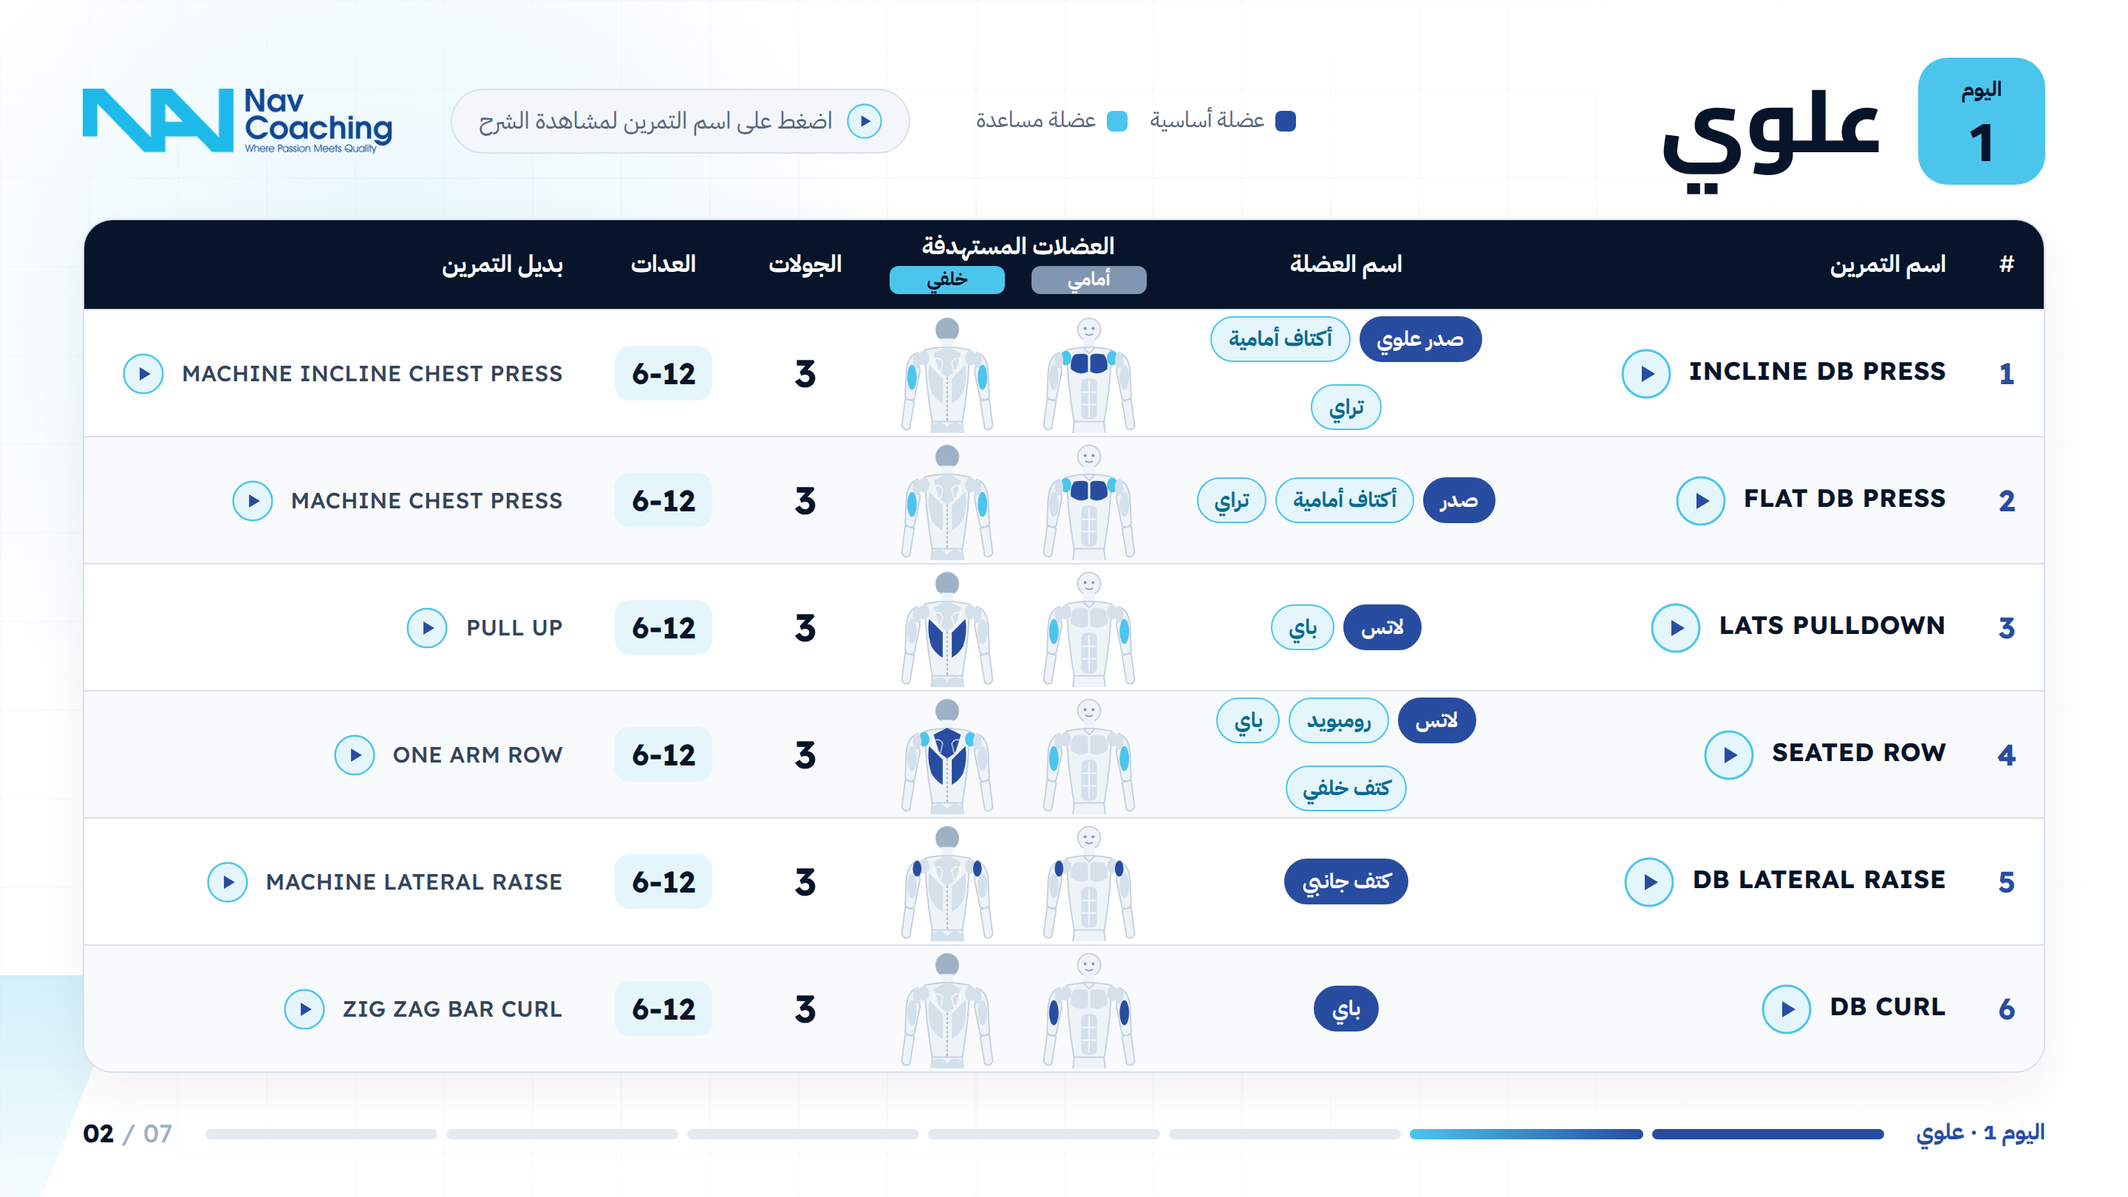
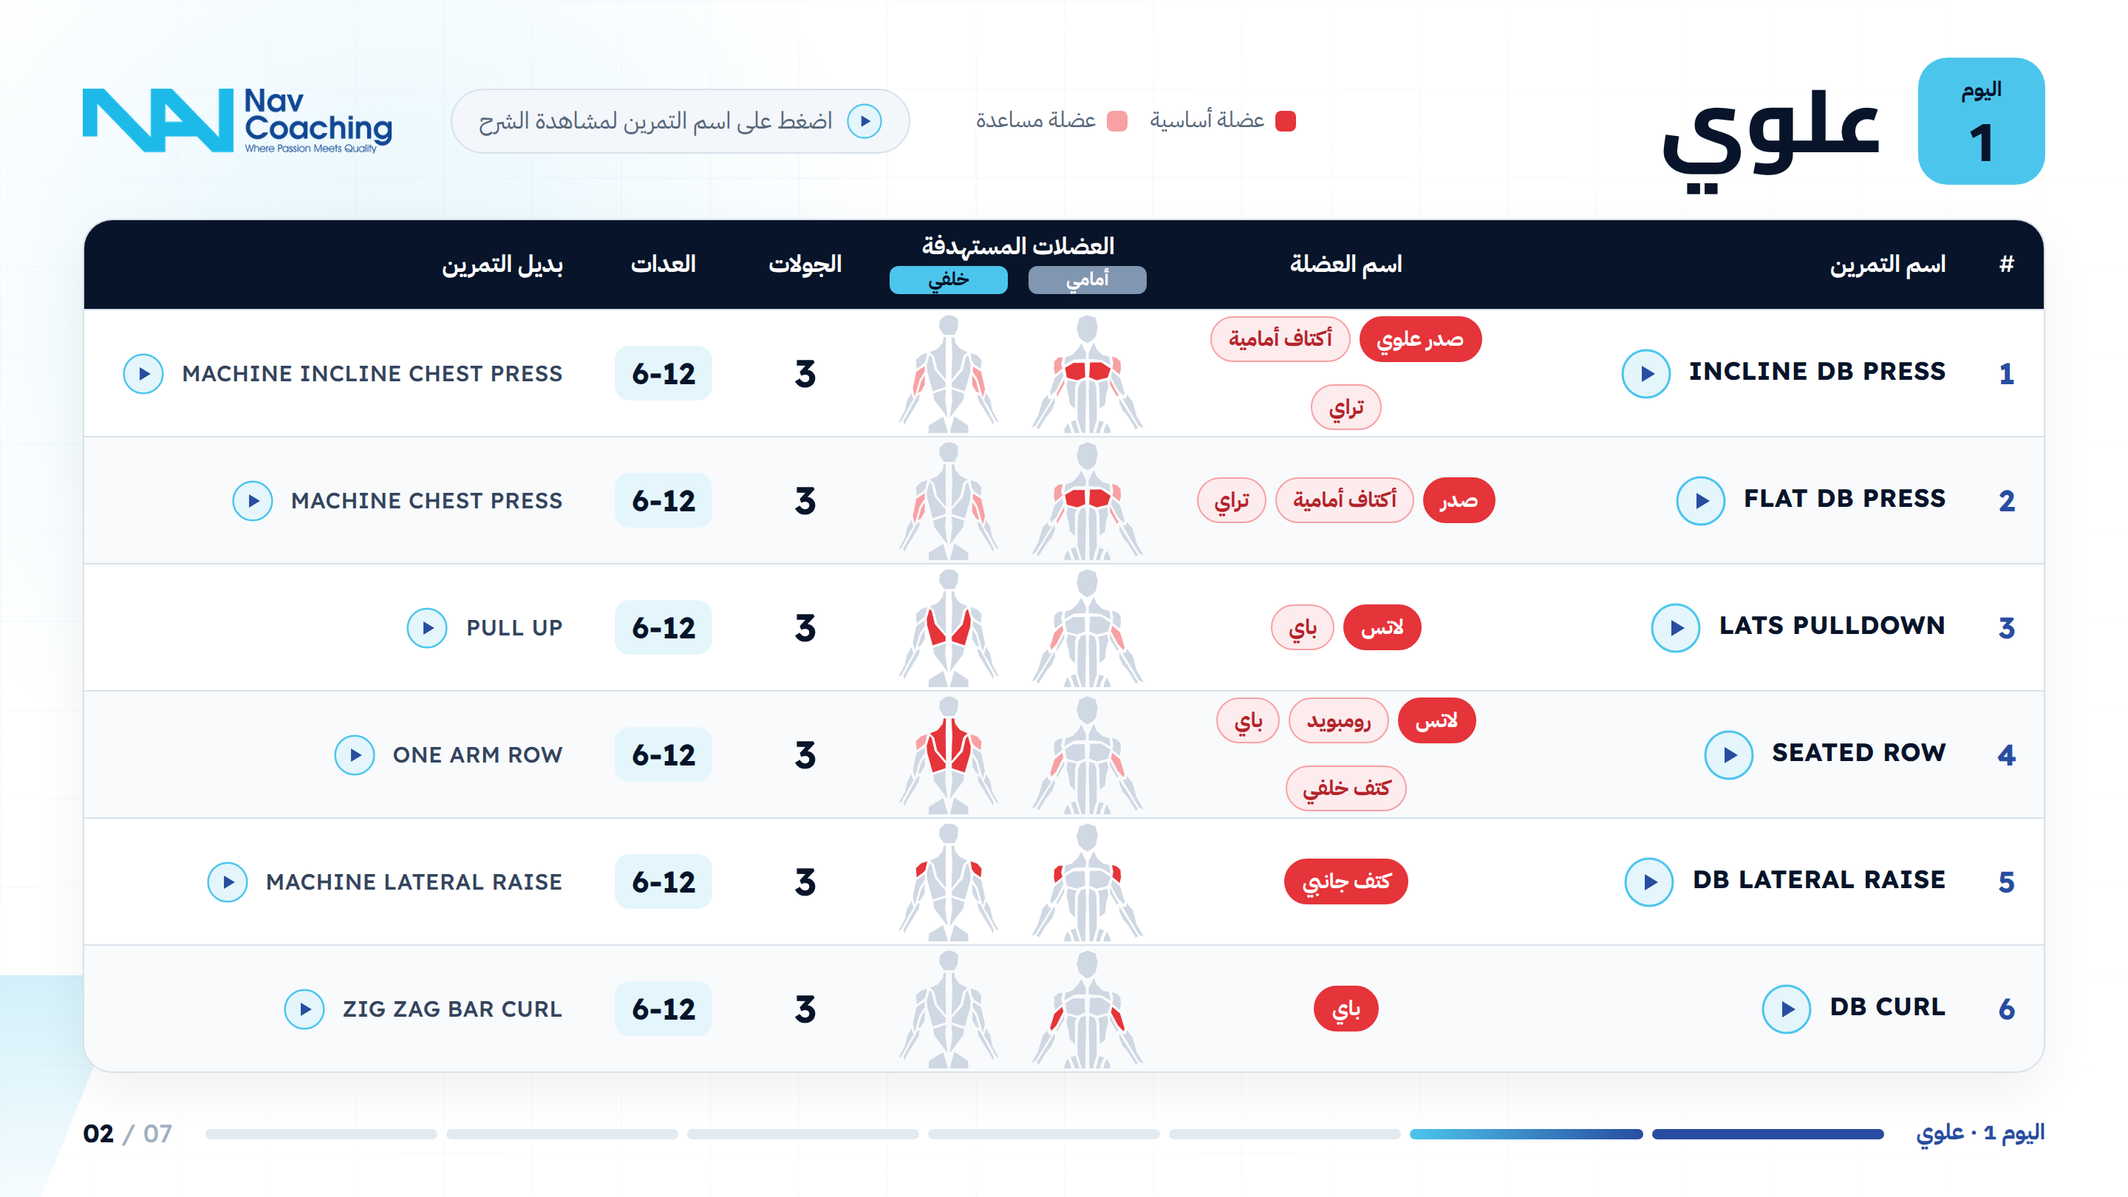
Program PDF: switch to anatomical muscle maps (MIT, react-body-highlighter) in red
Claude-Session: https://claude.ai/code/session_018Z9fQ6WXKqVkgdznS9iWHe

diff --git a/pdf/program.html b/pdf/program.html
@@ -78,13 +78,13 @@ a{color:inherit;text-decoration:none}
 .alt .lnk b{font-weight:500;color:#33445c;font-size:15px}
 .alt .lnk .pl{width:28px;height:28px}
 .tags{display:flex;flex-wrap:wrap;gap:6px;justify-content:center;padding:0 10px}
-.tag{font:700 14px "IBM Plex Sans Arabic";padding:4px 11px;border-radius:99px;background:var(--cyan-soft);border:1.5px solid var(--cyan);color:var(--cyan-ink);white-space:nowrap}
-.tag.p{background:var(--navy);border-color:var(--navy);color:#fff}
-.lg{display:flex;gap:16px;font:500 15px "IBM Plex Sans Arabic";color:var(--muted)}.lg span{display:flex;align-items:center;gap:7px}.lg i{width:14px;height:14px;border-radius:4px;background:var(--navy)}.lg i.s{background:var(--cyan)}
-.fig{gap:18px}.fig .v{display:flex;flex-direction:column;align-items:center}.fig svg{height:80px;width:78px}.fig .v span{font:700 11.5px "IBM Plex Sans Arabic";color:#fff;background:#8196b0;border-radius:6px;padding:0 7px;line-height:17px}.fig .v.b span{background:var(--ink3)}
+.tag{font:700 14px "IBM Plex Sans Arabic";padding:4px 11px;border-radius:99px;background:#fdeced;border:1.5px solid #f7a1a4;color:#b4232a;white-space:nowrap}
+.tag.p{background:#e5343a;border-color:#e5343a;color:#fff}
+.lg{display:flex;gap:16px;font:500 15px "IBM Plex Sans Arabic";color:var(--muted)}.lg span{display:flex;align-items:center;gap:7px}.lg i{width:14px;height:14px;border-radius:4px;background:#e5343a}.lg i.s{background:#f7a1a4}
+.fig{gap:14px}.fig .v{display:flex;flex-direction:column;align-items:center}.fig svg{height:80px;width:80px}.fig .v span{font:700 11.5px "IBM Plex Sans Arabic";color:#fff;background:#8196b0;border-radius:6px;padding:0 7px;line-height:17px}.fig .v.b span{background:var(--ink3)}
 .num{font:800 26px "Readex Pro";color:var(--ink)}
 .rep{font:700 20px "Readex Pro";color:var(--ink);direction:ltr;background:var(--cyan-soft);border-radius:10px;padding:6px 12px}
-.th .fh{display:flex;flex-direction:column;align-items:center;gap:4px;line-height:1.1}.th .fh div{display:flex;gap:18px}.th .fh span{width:78px;font:700 12.5px "IBM Plex Sans Arabic";background:#8196b0;border-radius:6px;line-height:19px}.th .fh span.b{background:var(--cyan);color:var(--ink)}
+.th .fh{display:flex;flex-direction:column;align-items:center;gap:4px;line-height:1.1}.th .fh div{display:flex;gap:14px}.th .fh span{width:80px;font:700 12.5px "IBM Plex Sans Arabic";background:#8196b0;border-radius:6px;line-height:19px}.th .fh span.b{background:var(--cyan);color:var(--ink)}
 .th .alt-h{text-align:right;padding-right:16px}
 .legend{position:absolute;bottom:78px;right:58px;display:flex;gap:18px;font:500 14px "IBM Plex Sans Arabic";color:var(--muted);z-index:2}
 .legend i{display:inline-block;width:12px;height:12px;border-radius:3px;margin-left:6px;vertical-align:-1px}
@@ -115,49 +115,20 @@ a{color:inherit;text-decoration:none}
 const TOTAL=7;
 const PLAY='<svg class="pl" viewBox="0 0 34 34"><circle cx="17" cy="17" r="16" fill="#e4f6fc" stroke="#4cc5ed" stroke-width="1.5"/><path d="M14 11.5v11l9-5.5z" fill="#284da0"/></svg>';
 const YT=id=>id.includes('/')?id:('https://www.youtube.com/'+(id.length&&id[0]==='w'?'watch?v='+id.slice(2):'shorts/'+id));
-// ---- body diagram
-const BASE='#d6e0eb',SIL='#eef3f8',STR='#c3cfdd',P='#284da0',S2='#4cc5ed';
-function mir(d){return d.replace(/(-?\d+(?:\.\d+)?),(-?\d+(?:\.\d+)?)/g,(m,x,y)=>(100-+x)+','+y)}
-function shape(tag,attrs){return '<'+tag+' '+Object.entries(attrs).map(([k,v])=>k+'="'+v+'"').join(' ')+'/>'}
-function both(kind,a,col){ // draws left + mirrored right
-  if(kind==='e'){const [cx,cy,rx,ry]=a;return shape('ellipse',{cx,cy,rx,ry,fill:col})+shape('ellipse',{cx:100-cx,cy,rx,ry,fill:col})}
-  return shape('path',{d:a,fill:col})+shape('path',{d:mir(a),fill:col})}
-function sil(low){let o='';
-  o+=shape('circle',{cx:50,cy:15,r:10,fill:SIL,stroke:STR,'stroke-width':1.2});
-  o+=shape('rect',{x:45,y:23,width:10,height:9,fill:SIL});
-  const parts=['M30,33 Q50,28 70,33 L68,62 Q66,80 63,98 L37,98 Q34,80 32,62 Z','M37,96 L63,96 L65,112 L50,118 L35,112 Z'];
-  parts.forEach(d=>o+=shape('path',{d,fill:SIL,stroke:STR,'stroke-width':1.2}));
-  (low?[]:['M24,35 Q15,38 14,52 L13,74 Q16,79 21,76 L26,52 Z','M13,76 L10,100 Q13,105 17,102 L21,78 Z']).concat(['M35,110 Q32,140 36,160 L37,193 L46,193 L47,160 Q50,135 50,116 Z']).forEach(d=>{o+=shape('path',{d,fill:SIL,stroke:STR,'stroke-width':1.2})+shape('path',{d:mir(d),fill:SIL,stroke:STR,'stroke-width':1.2})});
-  return o}
-function body(view,pri,sec){const c=m=>pri.includes(m)?P:(sec.includes(m)?S2:BASE);
-  const all0=pri.concat(sec),low=all0.every(m=>['quads','glutes','hams','calves'].includes(m));let o=sil(low);
-  if(view==='f'){
-    o+=both('p','M37,37 Q49,35 49,39 L49,52 Q42,56 34,50 Q33,42 37,37Z',c('chest'));
-    o+=both('e',[29.5,40,4.8,6.5],c('fdelt'));o+=both('e',[23.5,42,3.8,7],c('sdelt'));
-    o+=both('e',[19,57,4.2,11],c('biceps'));
-    o+=shape('rect',{x:43,y:58,width:14,height:36,rx:5,fill:c('abs')});
-    o+=both('e',[42,136,7.5,23],c('quads'));o+=both('e',[41,172,4,14],BASE);
-    // front cues: face, collar V, six-pack lines, navel
-    o+=shape('circle',{cx:46.5,cy:14,r:1.3,fill:'#8196b0'})+shape('circle',{cx:53.5,cy:14,r:1.3,fill:'#8196b0'})+shape('path',{d:'M47,19 Q50,21 53,19',fill:'none',stroke:'#8196b0','stroke-width':1.1,'stroke-linecap':'round'});
-    o+=shape('path',{d:'M45,31 L50,36 L55,31',fill:'none',stroke:STR,'stroke-width':1.2});
-    o+=shape('path',{d:'M50,60 V92 M43.5,70 H56.5 M43.5,81 H56.5',fill:'none',stroke:'#ffffffcc','stroke-width':1.1});
-    if(low){o+=shape('path',{d:'M38,99 L50,111 L62,99',fill:'none',stroke:STR,'stroke-width':1.3});o+=both('e',[41.5,161,3,3.2],'#c3cfdd');o+=both('p','M37,190 L46,190 L47,196 L35,196Z','#c3cfdd');}
-  }else{
-    o+=shape('path',{d:'M50,30 L62,36 L57,52 L50,57 L43,52 L38,36Z',fill:c('rhomb')});
-    o+=both('p','M34,46 Q40,52 46,58 L46,80 Q40,77 36,70 Q32,58 34,46Z',c('lats'));
-    o+=both('e',[29.5,40,4.8,6.5],c('rdelt'));o+=both('e',[23.5,42,3.8,7],c('sdelt'));
-    o+=both('e',[19,57,4.2,11],c('triceps'));
-    o+=both('e',[43,106,8,9],c('glutes'));o+=both('e',[42,138,7,19],c('hams'));o+=both('e',[41,171,5.5,13],c('calves'));
-    // back cues: hair, spine, shoulder blades
-    o+=shape('path',{d:'M40,15 A10,10 0 0 1 60,15 Q60,21 57,23 L43,23 Q40,21 40,15Z',fill:'#9fb1c6'});
-    o+=shape('path',{d:'M50,57 V96',fill:'none',stroke:'#aab9cb','stroke-width':1.3,'stroke-dasharray':'2.2 1.8'});
-    if(low){o+=shape('path',{d:'M50,99 V116',fill:'none',stroke:'#aab9cb','stroke-width':1.2});o+=both('p','M38,193 L45,193 L44,196 L39,196Z','#c3cfdd');}
-    o+=both('p','M38.5,41 Q44,39 46,44 L44,52 Q40,51 38.5,47Z','none');
-    o+=shape('path',{d:'M38.5,41 Q44,39 46,44 L44,52 Q40,51 38.5,47Z M61.5,41 Q56,39 54,44 L56,52 Q60,51 61.5,47Z',fill:'none',stroke:'#ffffffb0','stroke-width':1});
-  }
+// ---- body diagram (anatomy polygons: react-body-highlighter, MIT, (c) 2020 GV79)
+const ANAT={"anteriorData":[["CHEST",["51.8367347 41.6326531 51.0204082 55.1020408 57.9591837 57.9591837 67.755102 55.5102041 70.6122449 47.3469388 62.0408163 41.6326531","29.7959184 46.5306122 31.4285714 55.5102041 40.8163265 57.9591837 48.1632653 55.1020408 47.755102 42.0408163 37.5510204 42.0408163"]],["OBLIQUES",["68.5714286 63.2653061 67.3469388 57.1428571 58.7755102 59.5918367 60 64.0816327 60.4081633 83.2653061 65.7142857 78.7755102 66.5306122 69.7959184","33.877551 78.3673469 33.0612245 71.8367347 31.0204082 63.2653061 32.244898 57.1428571 40.8163265 59.1836735 39.1836735 63.2653061 39.1836735 83.6734694"]],["ABS",["56.3265306 59.1836735 57.9591837 64.0816327 58.3673469 77.9591837 58.3673469 92.6530612 56.3265306 98.3673469 55.1020408 104.081633 51.4285714 107.755102 51.0204082 84.4897959 50.6122449 67.3469388 51.0204082 57.1428571","43.6734694 58.7755102 48.5714286 57.1428571 48.9795918 67.3469388 48.5714286 84.4897959 48.1632653 107.346939 44.4897959 103.673469 40.8163265 91.4285714 40.8163265 78.3673469 41.2244898 64.4897959"]],["BICEPS",["16.7346939 68.1632653 17.9591837 71.4285714 22.8571429 66.122449 28.9795918 53.877551 27.755102 49.3877551 20.4081633 55.9183673","71.4285714 49.3877551 70.2040816 54.6938776 76.3265306 66.122449 81.6326531 71.8367347 82.8571429 68.9795918 78.7755102 55.5102041"]],["TRICEPS",["69.3877551 55.5102041 69.3877551 61.6326531 75.9183673 72.6530612 77.5510204 70.2040816 75.5102041 67.3469388","22.4489796 69.3877551 29.7959184 55.5102041 29.7959184 60.8163265 22.8571429 73.0612245"]],["NECK",["55.5102041 23.6734694 50.6122449 33.4693878 50.6122449 39.1836735 61.6326531 40 70.6122449 44.8979592 69.3877551 36.7346939 63.2653061 35.1020408 58.3673469 30.6122449","28.9795918 44.8979592 30.2040816 37.1428571 36.3265306 35.1020408 41.2244898 30.2040816 44.4897959 24.4897959 48.9795918 33.877551 48.5714286 39.1836735 37.9591837 39.5918367"]],["FRONT_DELTOIDS",["78.3673469 53.0612245 79.5918367 47.755102 79.1836735 41.2244898 75.9183673 37.9591837 71.0204082 36.3265306 72.244898 42.8571429 71.4285714 47.3469388","28.1632653 47.3469388 21.2244898 53.0612245 20 47.755102 20.4081633 40.8163265 24.4897959 37.1428571 28.5714286 37.1428571 26.9387755 43.2653061"]],["HEAD",["42.4489796 2.85714286 40 11.8367347 42.0408163 19.5918367 46.122449 23.2653061 49.7959184 25.3061224 54.6938776 22.4489796 57.5510204 19.1836735 59.1836735 10.2040816 57.1428571 2.44897959 49.7959184 0"]],["ABDUCTORS",["52.6530612 110.204082 54.2857143 124.897959 60 110.204082 62.0408163 100 64.8979592 94.2857143 60 92.6530612 56.7346939 104.489796","47.755102 110.612245 44.8979592 125.306122 42.0408163 115.918367 40.4081633 113.061224 39.5918367 107.346939 37.9591837 102.44898 34.6938776 93.877551 39.5918367 92.244898 41.6326531 99.1836735 43.6734694 105.306122"]],["QUADRICEPS",["34.6938776 98.7755102 37.1428571 108.163265 37.1428571 127.755102 34.2857143 137.142857 31.0204082 132.653061 29.3877551 120 28.1632653 111.428571 29.3877551 100.816327 32.244898 94.6938776","63.2653061 105.714286 64.4897959 100 66.9387755 94.6938776 70.2040816 101.22449 71.0204082 111.836735 68.1632653 133.061224 65.3061224 137.55102 62.4489796 128.571429 62.0408163 111.428571","38.7755102 129.387755 38.3673469 112.244898 41.2244898 118.367347 44.4897959 129.387755 42.8571429 135.102041 40 146.122449 36.3265306 146.530612 35.5102041 140","59.5918367 145.714286 55.5102041 128.979592 60.8163265 113.877551 61.2244898 130.204082 64.0816327 139.591837 62.8571429 146.530612","32.6530612 138.367347 26.5306122 145.714286 25.7142857 136.734694 25.7142857 127.346939 26.9387755 114.285714 29.3877551 133.469388","71.8367347 113.061224 73.877551 124.081633 73.877551 140.408163 72.6530612 145.714286 66.5306122 138.367347 70.2040816 133.469388"]],["KNEES",["33.877551 140 34.6938776 143.265306 35.5102041 147.346939 36.3265306 151.020408 35.1020408 156.734694 29.7959184 156.734694 27.3469388 152.653061 27.3469388 147.346939 30.2040816 144.081633","65.7142857 140 72.244898 147.755102 72.244898 152.244898 69.7959184 157.142857 64.8979592 156.734694 62.8571429 151.020408"]],["CALVES",["71.4285714 160.408163 73.4693878 153.469388 76.7346939 161.22449 79.5918367 167.755102 78.3673469 187.755102 79.5918367 195.510204 74.6938776 195.510204","24.8979592 194.693878 27.755102 164.897959 28.1632653 160.408163 26.122449 154.285714 24.8979592 157.55102 22.4489796 161.632653 20.8163265 167.755102 22.0408163 188.163265 20.8163265 195.510204","72.6530612 195.102041 69.7959184 159.183673 65.3061224 158.367347 64.0816327 162.44898 64.0816327 165.306122 65.7142857 177.142857","35.5102041 158.367347 35.9183673 162.44898 35.9183673 166.938776 35.1020408 172.244898 35.1020408 176.734694 32.244898 182.040816 30.6122449 187.346939 26.9387755 194.693878 27.3469388 187.755102 28.1632653 180.408163 28.5714286 175.510204 28.9795918 169.795918 29.7959184 164.081633 30.2040816 158.77551"]],["FOREARM",["6.12244898 88.5714286 10.2040816 75.1020408 14.6938776 70.2040816 16.3265306 74.2857143 19.1836735 73.4693878 4.48979592 97.5510204 0 100","84.4897959 69.7959184 83.2653061 73.4693878 80 73.0612245 95.1020408 98.3673469 100 100.408163 93.4693878 89.3877551 89.7959184 76.3265306","77.5510204 72.244898 77.5510204 77.5510204 80.4081633 84.0816327 85.3061224 89.7959184 92.244898 101.22449 94.6938776 99.5918367","6.93877551 101.22449 13.4693878 90.6122449 18.7755102 84.0816327 21.6326531 77.1428571 21.2244898 71.8367347 4.89795918 98.7755102"]]],"posteriorData":[["HEAD",["50.6382979 0 45.9574468 0.85106383 40.8510638 5.53191489 40.4255319 12.7659574 45.106383 20 55.7446809 20 59.1489362 13.6170213 59.5744681 4.68085106 55.7446809 1.27659574"]],["TRAPEZIUS",["44.6808511 21.7021277 47.6595745 21.7021277 47.2340426 38.2978723 47.6595745 64.6808511 38.2978723 53.1914894 35.3191489 40.8510638 31.0638298 36.5957447 39.1489362 33.1914894 43.8297872 27.2340426","52.3404255 21.7021277 55.7446809 21.7021277 56.5957447 27.2340426 60.8510638 32.7659574 68.9361702 36.5957447 64.6808511 40.4255319 61.7021277 53.1914894 52.3404255 64.6808511 53.1914894 38.2978723"]],["BACK_DELTOIDS",["29.3617021 37.0212766 22.9787234 39.1489362 17.4468085 44.2553191 18.2978723 53.6170213 24.2553191 49.3617021 27.2340426 46.3829787","71.0638298 37.0212766 78.2978723 39.5744681 82.5531915 44.6808511 81.7021277 53.6170213 74.893617 48.9361702 72.3404255 45.106383"]],["UPPER_BACK",["31.0638298 38.7234043 28.0851064 48.9361702 28.5106383 55.3191489 34.0425532 75.3191489 47.2340426 71.0638298 47.2340426 66.3829787 36.5957447 54.0425532 33.6170213 41.2765957","68.9361702 38.7234043 71.9148936 49.3617021 71.4893617 56.1702128 65.9574468 75.3191489 52.7659574 71.0638298 52.7659574 66.3829787 63.4042553 54.4680851 66.3829787 41.7021277"]],["TRICEPS",["26.8085106 49.787234 17.8723404 55.7446809 14.4680851 72.3404255 16.5957447 81.7021277 21.7021277 63.8297872 26.8085106 55.7446809","73.6170213 50.212766 82.1276596 55.7446809 85.9574468 73.1914894 83.4042553 82.1276596 77.8723404 62.9787234 73.1914894 55.7446809","26.8085106 58.2978723 26.8085106 68.5106383 22.9787234 75.3191489 19.1489362 77.4468085 22.5531915 65.5319149","72.7659574 58.2978723 77.0212766 64.6808511 80.4255319 77.4468085 76.5957447 75.3191489 72.7659574 68.9361702"]],["LOWER_BACK",["47.6595745 72.7659574 34.4680851 77.0212766 35.3191489 83.4042553 49.3617021 102.12766 46.8085106 82.9787234","52.3404255 72.7659574 65.5319149 77.0212766 64.6808511 83.4042553 50.6382979 102.12766 53.1914894 83.8297872"]],["FOREARM",["86.3829787 75.7446809 91.0638298 83.4042553 93.1914894 94.0425532 100 106.382979 96.1702128 104.255319 88.0851064 89.3617021 84.2553191 83.8297872","13.6170213 75.7446809 8.93617021 83.8297872 6.80851064 93.6170213 0 106.382979 3.82978723 104.255319 12.3404255 88.5106383 15.7446809 82.9787234","81.2765957 79.5744681 77.4468085 77.8723404 79.1489362 84.6808511 91.0638298 103.829787 93.1914894 108.93617 94.4680851 104.680851","18.7234043 79.5744681 22.1276596 77.8723404 20.8510638 84.2553191 9.36170213 102.978723 6.80851064 108.510638 5.10638298 104.680851"]],["GLUTEAL",["44.6808511 99.5744681 30.212766 108.510638 29.787234 118.723404 31.4893617 125.957447 47.2340426 121.276596 49.3617021 114.893617","55.3191489 99.1489362 51.0638298 114.468085 52.3404255 120.851064 68.0851064 125.957447 69.787234 119.148936 69.3617021 108.510638"]],["ABDUCTOR",["48.0851064 122.978723 44.6808511 122.978723 41.2765957 125.531915 45.106383 144.255319 48.5106383 135.744681 48.9361702 129.361702","51.9148936 122.553191 55.7446809 123.404255 59.1489362 125.957447 54.893617 144.255319 51.9148936 136.170213 51.0638298 129.361702"]],["HAMSTRING",["28.9361702 122.12766 31.0638298 129.361702 36.5957447 125.957447 35.3191489 135.319149 34.4680851 150.212766 29.3617021 158.297872 28.9361702 146.808511 27.6595745 141.276596 27.2340426 131.489362","71.4893617 121.702128 69.3617021 128.93617 63.8297872 125.957447 65.5319149 136.595745 66.3829787 150.212766 71.0638298 158.297872 71.4893617 147.659574 72.7659574 142.12766 73.6170213 131.914894","38.7234043 125.531915 44.2553191 145.957447 40.4255319 166.808511 36.1702128 152.765957 37.0212766 135.319149","61.7021277 125.531915 63.4042553 136.170213 64.2553191 153.191489 60 166.808511 56.1702128 146.382979"]],["KNEES",["34.4680851 153.191489 31.0638298 159.148936 33.6170213 166.382979 37.4468085 162.553191","66.3829787 153.617021 62.9787234 162.978723 66.8085106 166.382979 69.3617021 159.148936"]],["CALVES",["29.3617021 160.425532 28.5106383 167.234043 24.6808511 179.574468 23.8297872 192.765957 25.5319149 197.021277 28.5106383 193.191489 29.787234 180 31.9148936 171.06383 31.9148936 166.808511","37.4468085 165.106383 35.3191489 167.659574 33.1914894 171.914894 31.0638298 180.425532 30.212766 191.914894 34.0425532 200 38.7234043 190.638298 39.1489362 168.93617","62.9787234 165.106383 61.2765957 168.510638 61.7021277 190.638298 66.3829787 199.574468 70.6382979 191.914894 68.9361702 179.574468 66.8085106 170.212766","70.6382979 160.425532 72.3404255 168.510638 75.7446809 179.148936 76.5957447 192.765957 74.4680851 196.595745 72.3404255 193.617021 70.6382979 179.574468 68.0851064 168.085106"]],["LEFT_SOLEUS",["28.5106383 195.744681 30.212766 195.744681 33.6170213 201.702128 30.6382979 220 28.5106383 213.617021 26.8085106 198.297872"]],["RIGHT_SOLEUS",["69.787234 195.744681 71.9148936 195.744681 73.6170213 198.297872 71.9148936 213.191489 70.212766 219.574468 67.2340426 202.12766"]]]};
+const RED='#e5343a',RED2='#f7a1a4',BODY='#cfd8e3';
+const MAP={chest:['CHEST'],fdelt:['FRONT_DELTOIDS'],sdelt:['FRONT_DELTOIDS','BACK_DELTOIDS'],rdelt:['BACK_DELTOIDS'],biceps:['BICEPS'],triceps:['TRICEPS'],
+ lats:['UPPER_BACK'],rhomb:['TRAPEZIUS'],abs:['ABS'],quads:['QUADRICEPS'],glutes:['GLUTEAL'],hams:['HAMSTRING'],calves:['CALVES','LEFT_SOLEUS','RIGHT_SOLEUS']};
+function body(view,pri,sec){
+  const P=new Set(pri.flatMap(m=>MAP[m])),S=new Set(sec.flatMap(m=>MAP[m]));
   const all=pri.concat(sec),LOW=['quads','glutes','hams','calves'];
-  const vb=all.every(m=>LOW.includes(m))?'20 88 60 110':(all.length===1&&all[0]==='abs')?'4 26 92 92':'4 2 92 104';
-  return '<svg viewBox="'+vb+'" preserveAspectRatio="xMidYMid meet">'+o+'</svg>'}
+  const kind=all.every(m=>LOW.includes(m))?'low':(all.length===1&&all[0]==='abs')?'mid':'up';
+  const VB={f:{up:'2 0 96 104',mid:'8 30 84 88',low:'24 88 52 108'},b:{up:'2 0 96 116',mid:'8 34 84 98',low:'24 98 52 122'}}[view][kind];
+  let o='';(view==='f'?ANAT.anteriorData:ANAT.posteriorData).forEach(([m,ps])=>{if(kind==='low'&&m==='FOREARM')return;
+    const col=P.has(m)?RED:(S.has(m)&&!P.has(m)?RED2:BODY);
+    ps.forEach(p=>o+='<polygon points="'+p+'" fill="'+col+'" stroke="#fff" stroke-width=".6" stroke-linejoin="round"/>');});
+  return '<svg viewBox="'+VB+'" preserveAspectRatio="xMidYMid meet">'+o+'</svg>'}
 // ---- data (content kept from the original file)
 const DAYS=[
  {n:1,cls:'a',title:'علوي',rows:[
